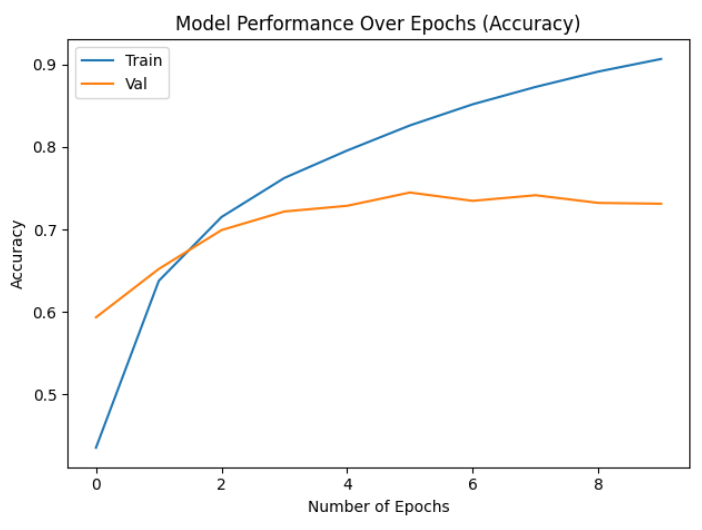
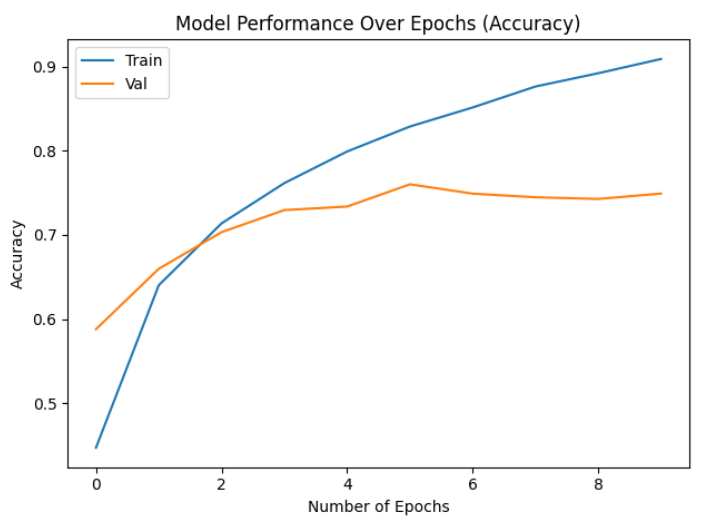
Fixing comments and plots

diff --git a/main.py b/main.py
@@ -110,7 +110,7 @@ def train_model(model, dataset):
     # Fit the CNN and use the test datasets as the validation data
     history = model.fit(x_train, y_train, epochs=10, validation_data=(x_test, y_test))
 
-    # Evaluate the model (comes out to 73.02%)
+    # Evaluate the model (comes out to around 74.91%)
     print("\n\nFinal Evaluation on test set:")
     cnn.evaluate(x_test, y_test)
 
